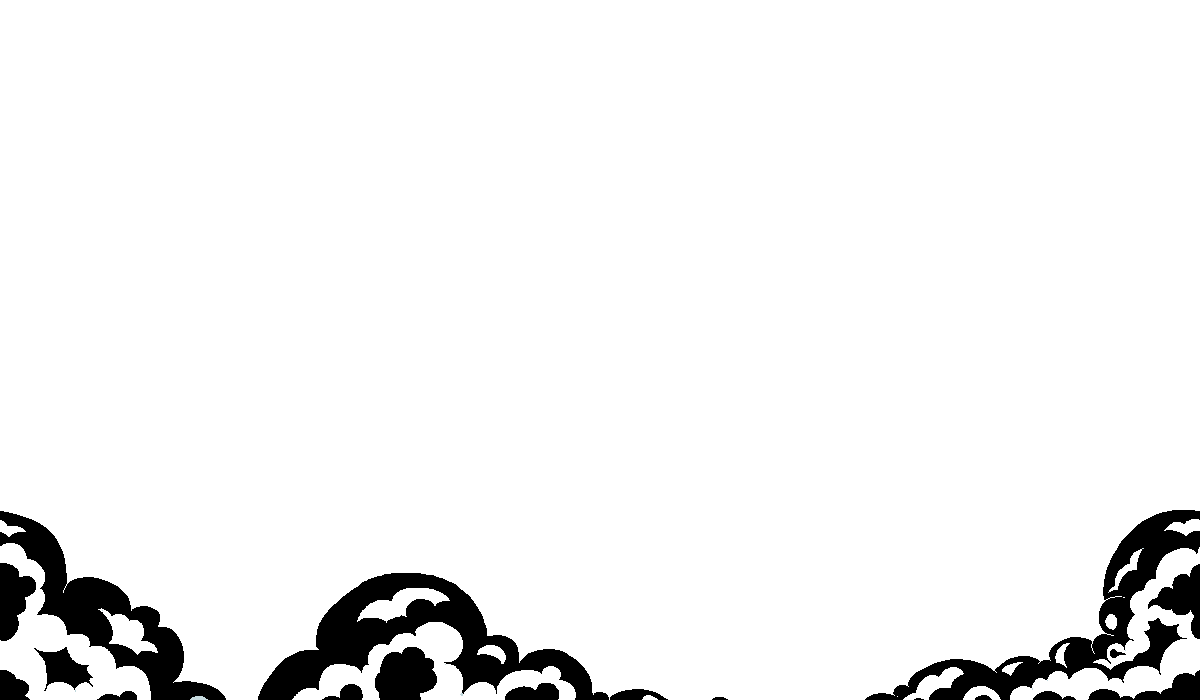
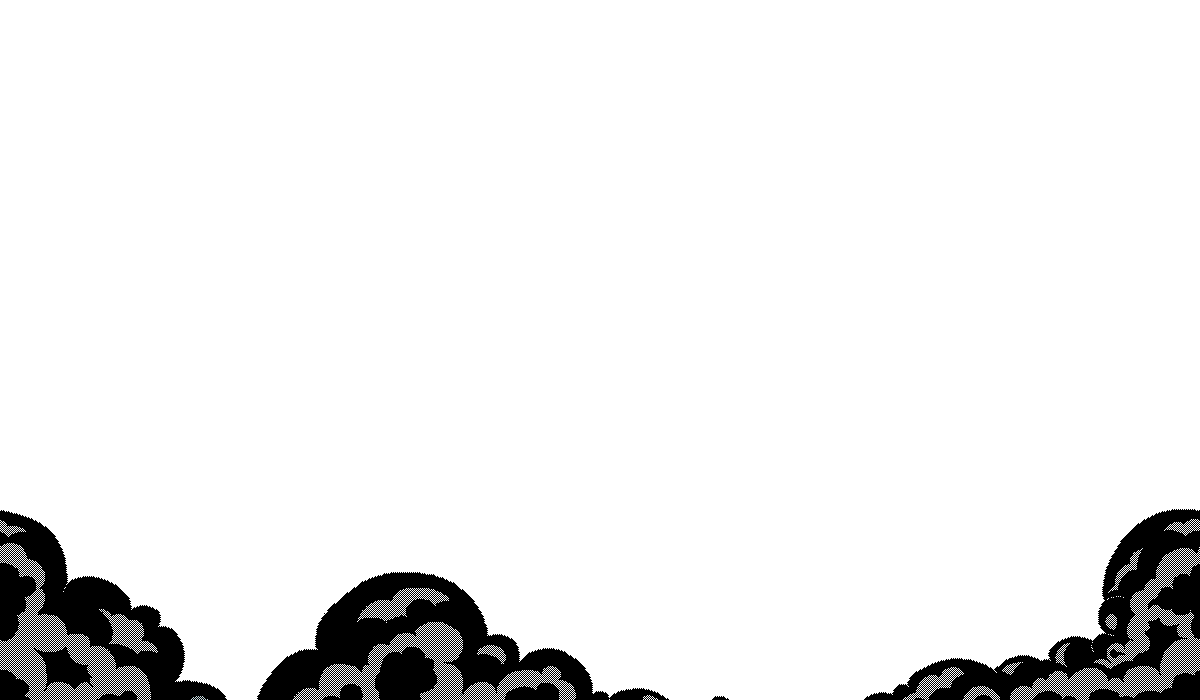
Add files via upload

diff --git a/lighthouse/index.html b/lighthouse/index.html
@@ -25,16 +25,16 @@ function draw(){
     // draw images and clones
     background(0);
 
-    image(clouds5,clouds5x,0);
-    image(clouds5,(clouds5x-1200),0);
+    image(clouds5,clouds5x,100);
+    image(clouds5,(clouds5x-1200),100);
     image(clouds4,clouds4x,0);
-    image(clouds4,(clouds4x-1200),0);
+    image(clouds4,(clouds4x-1200),100);
     image(clouds3,clouds3x,0);
-    image(clouds3,(clouds3x-1200),0);
+    image(clouds3,(clouds3x-1200),100);
     image(clouds2,clouds2x,0);
-    image(clouds2,(clouds2x-1200),0);
+    image(clouds2,(clouds2x-1200),100);
     image(clouds1,clouds1x,0);
-    image(clouds1,(clouds1x-1200),0);
+    image(clouds1,(clouds1x-1200),100);
 
     image(lighthouse,0,0);
 
